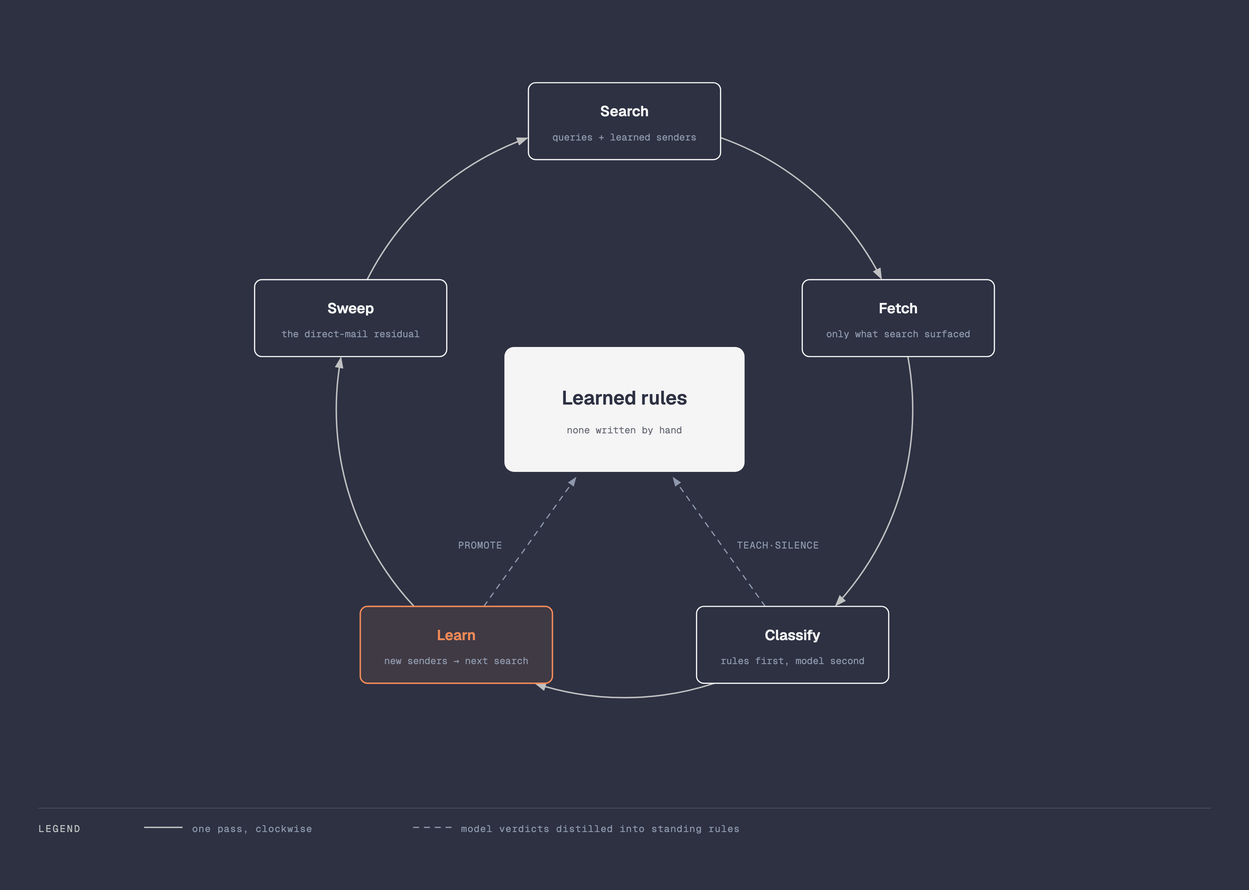
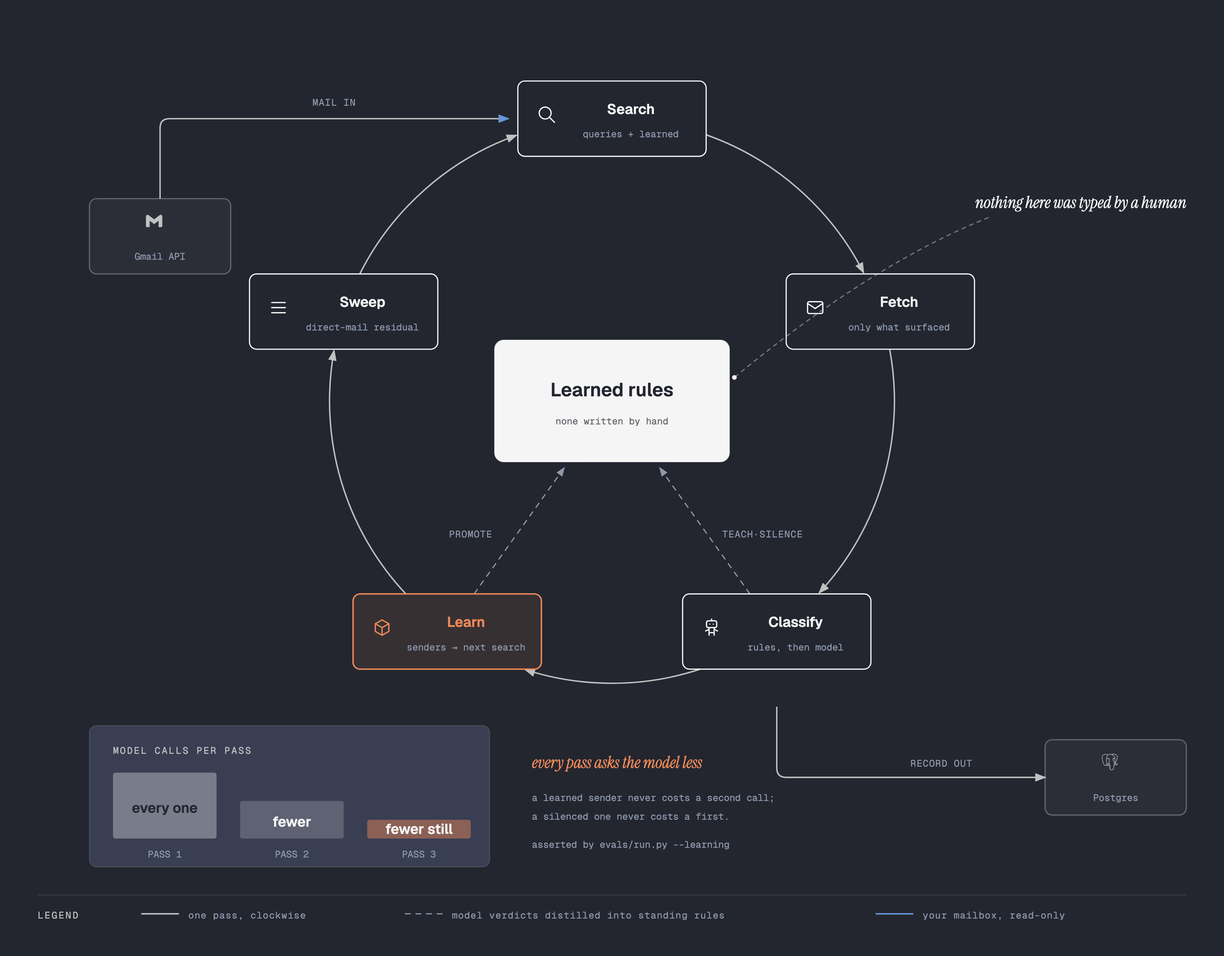
Draw the cost falling, not just the loop turning
The old diagram was a correct topology map and nothing more: it showed
that a loop exists, and left the claim the loop is *for* — that the work
shrinks every pass — entirely to the caption. Three additions fix that.

A model-calls-per-pass strip puts the decay on the page, so the falling
cost is something the reader sees rather than something they are told.
Gmail and Postgres now anchor the ends, which turns a generic flywheel
into this specific system reading a mailbox and writing a record. And
every station carries an icon, so the five steps are distinguishable at a
glance instead of five identical rectangles.

The ring geometry, radius and station angles are unchanged; the type is
still Loop and the two-coral budget still holds (the Learn station and
the final bar). The dark variant is the same drawing under the token
inversion, and both PNGs are re-exported at 3x.

Claude-Session: https://claude.ai/code/session_01Sbcg7hfF8zXLoYjJBcyraC

diff --git a/docs/diagrams/seed-expand-loop-dark.html b/docs/diagrams/seed-expand-loop-dark.html
@@ -8,7 +8,7 @@
   <style>
     *, *::before, *::after { box-sizing: border-box; margin: 0; padding: 0; }
     :root {
-      --paper: #2d3142; --ink: #f5f5f5; --muted: #bfc0c0; --soft: #8e98ac;
+      --paper: #23262f; --paper-2: #393e53; --ink: #f5f5f5; --muted: #bfc0c0; --soft: #8e98ac;
       --accent: #f08a59; --accent-tint: rgba(240,138,89,0.10); --link: #6a95d8;
       --sans: 'Geist', system-ui, sans-serif; --serif: 'Instrument Serif', serif;
       --mono: 'Geist Mono', ui-monospace, monospace;
@@ -22,6 +22,7 @@
     .spoke { fill: none; stroke: var(--soft); stroke-width: 1; stroke-dasharray: 5 4; }
     .station { fill: var(--paper); stroke: var(--ink); stroke-width: 1; }
     .station.focal { fill: var(--accent-tint); stroke: var(--accent); stroke-width: 1.2; }
+    .ext { fill: rgba(245,245,245,0.04); stroke: rgba(245,245,245,0.30); stroke-width: 1; }
     .hub { fill: var(--ink); }
     .node-name { fill: var(--ink); font: 600 12px var(--sans); text-anchor: middle; }
     .focal-name { fill: var(--accent); }
@@ -31,6 +32,12 @@
     .arrow-label { fill: var(--soft); font: 400 8px var(--mono); letter-spacing: 0.06em; text-anchor: middle; }
     .legend-title { fill: var(--muted); font: 400 8px var(--mono); letter-spacing: 0.14em; }
     .legend-item { fill: var(--soft); font: 400 8px var(--mono); letter-spacing: 0.06em; }
+    .aside { fill: var(--ink); font: italic 400 14px var(--serif); }
+    .aside-accent { fill: var(--accent); font: italic 400 14px var(--serif); }
+    .decay-title { fill: var(--muted); font: 400 8px var(--mono); letter-spacing: 0.14em; }
+    .decay-val { font: 600 12px var(--sans); text-anchor: middle; }
+    .decay-pass { fill: var(--soft); font: 400 8px var(--mono); text-anchor: middle; }
+    .decay-note { fill: var(--soft); font: 400 8px var(--mono); text-anchor: start; }
   </style>
 </head>
 <body>
@@ -38,16 +45,25 @@
     <p class="eyebrow">jobd &middot; seed &amp; expand</p>
     <h1>The loop that gets cheaper every run</h1>
 
-    <svg viewBox="0 0 1040 740" xmlns="http://www.w3.org/2000/svg" role="img" aria-labelledby="jobd-loop-dark-title jobd-loop-dark-desc">
-      <title id="jobd-loop-dark-title">The loop that gets cheaper every run</title>
-      <desc id="jobd-loop-dark-desc">Five stations flow clockwise: search, fetch, classify, learn, and a sweep of the direct-mail residual. Classify and learn write distilled sender rules into one central hub, so each pass of the loop costs less than the one before.</desc>
+    <svg viewBox="0 0 1040 812" xmlns="http://www.w3.org/2000/svg" role="img" aria-labelledby="loop-dark-title loop-dark-desc">
+      <title id="loop-dark-title">The loop that gets cheaper every run</title>
+      <desc id="loop-dark-desc">Mail is pulled from Gmail into a five-station clockwise loop — search, fetch, classify, learn, and a sweep of the direct-mail residual — whose record lands in Postgres. Classify and learn distil model verdicts into one shared store of learned sender rules, so each pass sends fewer messages to the model than the pass before.</desc>
       <defs>
         <marker id="arrow" markerWidth="8" markerHeight="6" refX="7" refY="3" orient="auto"><polygon points="0 0, 8 3, 0 6" fill="#bfc0c0"/></marker>
         <marker id="arrow-accent" markerWidth="8" markerHeight="6" refX="7" refY="3" orient="auto"><polygon points="0 0, 8 3, 0 6" fill="#f08a59"/></marker>
         <marker id="arrow-link" markerWidth="8" markerHeight="6" refX="7" refY="3" orient="auto"><polygon points="0 0, 8 3, 0 6" fill="#6a95d8"/></marker>
         <marker id="arrow-soft" markerWidth="8" markerHeight="6" refX="7" refY="3" orient="auto"><polygon points="0 0, 8 3, 0 6" fill="#8e98ac"/></marker>
       </defs>
-      <rect width="1040" height="740" fill="#2d3142"/>
+      <rect width="1040" height="812" fill="#23262f"/>
+
+      <!-- External source and sink, drawn first so ring arrows sit above paper. -->
+      <path class="ring" d="M136 168 L136 108 Q136 100 144 100 L432 100" marker-end="url(#arrow-link)" stroke="#6a95d8"/>
+      <rect x="256" y="78" width="56" height="14" rx="2" fill="#23262f"/>
+      <text x="284" y="89" class="arrow-label" fill="#6a95d8">MAIL IN</text>
+
+      <path class="ring" d="M660 600 L660 652 Q660 660 668 660 L888 660" marker-end="url(#arrow)"/>
+      <rect x="764" y="640" width="72" height="14" rx="2" fill="#23262f"/>
+      <text x="800" y="651" class="arrow-label">RECORD OUT</text>
 
       <!-- Solid clockwise ring: five arcs on the same r=240 station circle. -->
       <path class="ring" d="M600.000 113.726 A240 240 0 0 1 733.784 230.930" marker-end="url(#arrow)"/>
@@ -61,39 +77,83 @@
       <path class="spoke" d="M402.857 504.000 L479.370 396.882" marker-end="url(#arrow-soft)"/>
 
       <!-- Spoke labels sit beside the line with a visible 6px+ gap. -->
-      <rect x="612" y="444" width="72" height="16" rx="4" fill="#2d3142"/>
+      <rect x="612" y="444" width="72" height="16" rx="4" fill="#23262f"/>
       <text x="648" y="456" class="arrow-label">TEACH&#183;SILENCE</text>
-      <rect x="372" y="444" width="56" height="16" rx="4" fill="#2d3142"/>
+      <rect x="372" y="444" width="56" height="16" rx="4" fill="#23262f"/>
       <text x="400" y="456" class="arrow-label">PROMOTE</text>
 
-      <!-- Stations, clockwise from the top. -->
+      <!-- External: Gmail source. -->
+      <rect class="ext" x="76" y="168" width="120" height="64" rx="6"/>
+      <g transform="translate(124,180) scale(0.58)" fill="#bfc0c0"><path d="M24 5.457v13.909c0 .904-.732 1.636-1.636 1.636h-3.819V11.73L12 16.64l-6.545-4.91v9.273H1.636A1.636 1.636 0 0 1 0 19.366V5.457c0-2.023 2.309-3.178 3.927-1.964L5.455 4.64 12 9.548l6.545-4.91 1.528-1.145C21.69 2.28 24 3.434 24 5.457z"/></g>
+      <text x="136" y="220" class="sublabel">Gmail API</text>
+
+      <!-- External: Postgres sink. -->
+      <rect class="ext" x="888" y="628" width="120" height="64" rx="6"/>
+      <g transform="translate(936,640) scale(0.58)" fill="#bfc0c0"><path d="M23.5594 14.7228a.5269.5269 0 0 0-.0563-.1191c-.139-.2632-.4768-.3418-1.0074-.2321-1.6533.3411-2.2935.1312-2.5256-.0191 1.342-2.0482 2.445-4.522 3.0411-6.8297.2714-1.0507.7982-3.5237.1222-4.7316a1.5641 1.5641 0 0 0-.1509-.235C21.6931.9086 19.8007.0248 17.5099.0005c-1.4947-.0158-2.7705.3461-3.1161.4794a9.449 9.449 0 0 0-.5159-.0816 8.044 8.044 0 0 0-1.3114-.1278c-1.1822-.0184-2.2038.2642-3.0498.8406-.8573-.3211-4.7888-1.645-7.2219.0788C.9359 2.1526.3086 3.8733.4302 6.3043c.0409.818.5069 3.334 1.2423 5.7436.4598 1.5065.9387 2.7019 1.4334 3.582.553.9942 1.1259 1.5933 1.7143 1.7895.4474.1491 1.1327.1441 1.8581-.7279.8012-.9635 1.5903-1.8258 1.9446-2.2069.4351.2355.9064.3625 1.39.3772a.0569.0569 0 0 0 .0004.0041 11.0312 11.0312 0 0 0-.2472.3054c-.3389.4302-.4094.5197-1.5002.7443-.3102.064-1.1344.2339-1.1464.8115-.0025.1224.0329.2309.0919.3268.2269.4231.9216.6097 1.015.6331 1.3345.3335 2.5044.092 3.3714-.6787-.017 2.231.0775 4.4174.3454 5.0874.2212.5529.7618 1.9045 2.4692 1.9043.2505 0 .5263-.0291.8296-.0941 1.7819-.3821 2.5557-1.1696 2.855-2.9059.1503-.8707.4016-2.8753.5388-4.1012.0169-.0703.0357-.1207.057-.1362.0007-.0005.0697-.0471.4272.0307a.3673.3673 0 0 0 .0443.0068l.2539.0223.0149.001c.8468.0384 1.9114-.1426 2.5312-.4308.6438-.2988 1.8057-1.0323 1.5951-1.6698zM2.371 11.8765c-.7435-2.4358-1.1779-4.8851-1.2123-5.5719-.1086-2.1714.4171-3.6829 1.5623-4.4927 1.8367-1.2986 4.8398-.5408 6.108-.13-.0032.0032-.0066.0061-.0098.0094-2.0238 2.044-1.9758 5.536-1.9708 5.7495-.0002.0823.0066.1989.0162.3593.0348.5873.0996 1.6804-.0735 2.9184-.1609 1.1504.1937 2.2764.9728 3.0892.0806.0841.1648.1631.2518.2374-.3468.3714-1.1004 1.1926-1.9025 2.1576-.5677.6825-.9597.5517-1.0886.5087-.3919-.1307-.813-.5871-1.2381-1.3223-.4796-.839-.9635-2.0317-1.4155-3.5126zm6.0072 5.0871c-.1711-.0428-.3271-.1132-.4322-.1772.0889-.0394.2374-.0902.4833-.1409 1.2833-.2641 1.4815-.4506 1.9143-1.0002.0992-.126.2116-.2687.3673-.4426a.3549.3549 0 0 0 .0737-.1298c.1708-.1513.2724-.1099.4369-.0417.156.0646.3078.26.3695.4752.0291.1016.0619.2945-.0452.4444-.9043 1.2658-2.2216 1.2494-3.1676 1.0128zm2.094-3.988-.0525.141c-.133.3566-.2567.6881-.3334 1.003-.6674-.0021-1.3168-.2872-1.8105-.8024-.6279-.6551-.9131-1.5664-.7825-2.5004.1828-1.3079.1153-2.4468.079-3.0586-.005-.0857-.0095-.1607-.0122-.2199.2957-.2621 1.6659-.9962 2.6429-.7724.4459.1022.7176.4057.8305.928.5846 2.7038.0774 3.8307-.3302 4.7363-.084.1866-.1633.3629-.2311.5454zm7.3637 4.5725c-.0169.1768-.0358.376-.0618.5959l-.146.4383a.3547.3547 0 0 0-.0182.1077c-.0059.4747-.054.6489-.115.8693-.0634.2292-.1353.4891-.1794 1.0575-.11 1.4143-.8782 2.2267-2.4172 2.5565-1.5155.3251-1.7843-.4968-2.0212-1.2217a6.5824 6.5824 0 0 0-.0769-.2266c-.2154-.5858-.1911-1.4119-.1574-2.5551.0165-.5612-.0249-1.9013-.3302-2.6462.0044-.2932.0106-.5909.019-.8918a.3529.3529 0 0 0-.0153-.1126 1.4927 1.4927 0 0 0-.0439-.208c-.1226-.4283-.4213-.7866-.7797-.9351-.1424-.059-.4038-.1672-.7178-.0869.067-.276.1831-.5875.309-.9249l.0529-.142c.0595-.16.134-.3257.213-.5012.4265-.9476 1.0106-2.2453.3766-5.1772-.2374-1.0981-1.0304-1.6343-2.2324-1.5098-.7207.0746-1.3799.3654-1.7088.5321a5.6716 5.6716 0 0 0-.1958.1041c.0918-1.1064.4386-3.1741 1.7357-4.4823a4.0306 4.0306 0 0 1 .3033-.276.3532.3532 0 0 0 .1447-.0644c.7524-.5706 1.6945-.8506 2.802-.8325.4091.0067.8017.0339 1.1742.081 1.939.3544 3.2439 1.4468 4.0359 2.3827.8143.9623 1.2552 1.9315 1.4312 2.4543-1.3232-.1346-2.2234.1268-2.6797.779-.9926 1.4189.543 4.1729 1.2811 5.4964.1353.2426.2522.4522.2889.5413.2403.5825.5515.9713.7787 1.2552.0696.087.1372.1714.1885.245-.4008.1155-1.1208.3825-1.0552 1.717-.0123.1563-.0423.4469-.0834.8148-.0461.2077-.0702.4603-.0994.7662zm.8905-1.6211c-.0405-.8316.2691-.9185.5967-1.0105a2.8566 2.8566 0 0 0 .135-.0406 1.202 1.202 0 0 0 .1342.103c.5703.3765 1.5823.4213 3.0068.1344-.2016.1769-.5189.3994-.9533.6011-.4098.1903-1.0957.333-1.7473.3636-.7197.0336-1.0859-.0807-1.1721-.151zm.5695-9.2712c-.0059.3508-.0542.6692-.1054 1.0017-.055.3576-.112.7274-.1264 1.1762-.0142.4368.0404.8909.0932 1.3301.1066.887.216 1.8003-.2075 2.7014a3.5272 3.5272 0 0 1-.1876-.3856c-.0527-.1276-.1669-.3326-.3251-.6162-.6156-1.1041-2.0574-3.6896-1.3193-4.7446.3795-.5427 1.3408-.5661 2.1781-.463zm.2284 7.0137a12.3762 12.3762 0 0 0-.0853-.1074l-.0355-.0444c.7262-1.1995.5842-2.3862.4578-3.4385-.0519-.4318-.1009-.8396-.0885-1.2226.0129-.4061.0666-.7543.1185-1.0911.0639-.415.1288-.8443.1109-1.3505.0134-.0531.0188-.1158.0118-.1902-.0457-.4855-.5999-1.938-1.7294-3.253-.6076-.7073-1.4896-1.4972-2.6889-2.0395.5251-.1066 1.2328-.2035 2.0244-.1859 2.0515.0456 3.6746.8135 4.8242 2.2824a.908.908 0 0 1 .0667.1002c.7231 1.3556-.2762 6.2751-2.9867 10.5405zm-8.8166-6.1162c-.025.1794-.3089.4225-.6211.4225a.5821.5821 0 0 1-.0809-.0056c-.1873-.026-.3765-.144-.5059-.3156-.0458-.0605-.1203-.178-.1055-.2844.0055-.0401.0261-.0985.0925-.1488.1182-.0894.3518-.1226.6096-.0867.3163.0441.6426.1938.6113.4186zm7.9305-.4114c.0111.0792-.049.201-.1531.3102-.0683.0717-.212.1961-.4079.2232a.5456.5456 0 0 1-.075.0052c-.2935 0-.5414-.2344-.5607-.3717-.024-.1765.2641-.3106.5611-.352.297-.0414.6111.0088.6356.1851z"/></g>
+      <text x="948" y="680" class="sublabel">Postgres</text>
+
+      <!-- Stations, clockwise from the top. Icons sit left, text right. -->
       <rect class="station" x="440" y="68" width="160" height="64" rx="6"/>
-      <text x="520" y="96" class="node-name">Search</text><text x="520" y="116" class="sublabel">queries + learned senders</text>
+      <g transform="translate(456,88) scale(0.72)" fill="none" stroke="#f5f5f5" stroke-width="1.5" stroke-linecap="round" stroke-linejoin="round"><path d="M3 10a7 7 0 1 0 14 0a7 7 0 1 0 -14 0"/><path d="M21 21l-6 -6"/></g>
+      <text x="536" y="96" class="node-name">Search</text><text x="536" y="116" class="sublabel">queries + learned</text>
 
       <rect class="station" x="668" y="232" width="160" height="64" rx="6"/>
-      <text x="748" y="260" class="node-name">Fetch</text><text x="748" y="280" class="sublabel">only what search surfaced</text>
+      <g transform="translate(684,252) scale(0.72)" fill="none" stroke="#f5f5f5" stroke-width="1.5" stroke-linecap="round" stroke-linejoin="round"><path d="M3 7a2 2 0 0 1 2 -2h14a2 2 0 0 1 2 2v10a2 2 0 0 1 -2 2h-14a2 2 0 0 1 -2 -2l0 -10"/><path d="M3 7l9 6l9 -6"/></g>
+      <text x="764" y="260" class="node-name">Fetch</text><text x="764" y="280" class="sublabel">only what surfaced</text>
 
       <rect class="station" x="580" y="504" width="160" height="64" rx="6"/>
-      <text x="660" y="532" class="node-name">Classify</text><text x="660" y="552" class="sublabel">rules first, model second</text>
+      <g transform="translate(596,524) scale(0.72)" fill="none" stroke="#f5f5f5" stroke-width="1.5" stroke-linecap="round" stroke-linejoin="round"><path d="M6 6a2 2 0 0 1 2 -2h8a2 2 0 0 1 2 2v4a2 2 0 0 1 -2 2h-8a2 2 0 0 1 -2 -2l0 -4"/><path d="M12 2v2"/><path d="M9 12v9"/><path d="M15 12v9"/><path d="M5 16l4 -2"/><path d="M15 14l4 2"/><path d="M9 18h6"/><path d="M10 8v.01"/><path d="M14 8v.01"/></g>
+      <text x="676" y="532" class="node-name">Classify</text><text x="676" y="552" class="sublabel">rules, then model</text>
 
       <rect class="station focal" x="300" y="504" width="160" height="64" rx="6"/>
-      <text x="380" y="532" class="node-name focal-name">Learn</text><text x="380" y="552" class="sublabel">new senders &#8594; next search</text>
+      <g transform="translate(316,524) scale(0.72)" fill="none" stroke="#f08a59" stroke-width="1.5" stroke-linecap="round" stroke-linejoin="round"><path d="M12 3l8 4.5l0 9l-8 4.5l-8 -4.5l0 -9l8 -4.5"/><path d="M12 12l8 -4.5"/><path d="M12 12l0 9"/><path d="M12 12l-8 -4.5"/></g>
+      <text x="396" y="532" class="node-name focal-name">Learn</text><text x="396" y="552" class="sublabel">senders &#8594; next search</text>
 
       <rect class="station" x="212" y="232" width="160" height="64" rx="6"/>
-      <text x="292" y="260" class="node-name">Sweep</text><text x="292" y="280" class="sublabel">the direct-mail residual</text>
+      <g transform="translate(228,252) scale(0.72)" fill="none" stroke="#f5f5f5" stroke-width="1.5" stroke-linecap="round" stroke-linejoin="round"><path d="M4 12h16"/><path d="M4 18h16"/><path d="M4 6h16"/></g>
+      <text x="308" y="260" class="node-name">Sweep</text><text x="308" y="280" class="sublabel">direct-mail residual</text>
 
       <!-- The one shared-state hub. -->
       <rect class="hub" x="420" y="288" width="200" height="104" rx="8"/>
       <text x="520" y="336" class="hub-name">Learned rules</text>
       <text x="520" y="360" class="hub-sub">none written by hand</text>
 
+      <!-- Editorial aside on the hub. -->
+      <text x="1008" y="176" class="aside" text-anchor="end">nothing here was typed by a human</text>
+      <path d="M840 184 Q 740 224 624 320" fill="none" stroke="rgba(245,245,245,0.40)" stroke-width="1" stroke-dasharray="4,3"/>
+      <circle cx="624" cy="320" r="2" fill="#f5f5f5"/>
+
+      <!-- Cost decay: the claim the loop exists to make. Bars share a
+           common baseline at y=712 so height alone encodes the fall. -->
+      <rect x="76" y="616" width="340" height="120" rx="6" fill="#393e53" stroke="rgba(245,245,245,0.12)" stroke-width="1"/>
+      <text x="96" y="640" class="decay-title">MODEL CALLS PER PASS</text>
+
+      <rect x="96" y="656" width="88" height="56" rx="2" fill="rgba(245,245,245,0.34)"/>
+      <text x="140" y="690" class="decay-val" fill="#23262f">every one</text>
+      <text x="140" y="728" class="decay-pass">PASS 1</text>
+
+      <rect x="204" y="680" width="88" height="32" rx="2" fill="rgba(245,245,245,0.20)"/>
+      <text x="248" y="702" class="decay-val" fill="#f5f5f5">fewer</text>
+      <text x="248" y="728" class="decay-pass">PASS 2</text>
+
+      <rect x="312" y="696" width="88" height="16" rx="2" fill="rgba(240,138,89,0.45)"/>
+      <text x="356" y="708" class="decay-val" fill="#f5f5f5" font-size="8">fewer still</text>
+      <text x="356" y="728" class="decay-pass">PASS 3</text>
+
+      <text x="452" y="652" class="aside-accent">every pass asks the model less</text>
+      <text x="452" y="680" class="decay-note">a learned sender never costs a second call;</text>
+      <text x="452" y="696" class="decay-note">a silenced one never costs a first.</text>
+      <text x="452" y="720" class="decay-note">asserted by evals/run.py --learning</text>
+
       <!-- Legend strip -->
-      <line x1="32" y1="672" x2="1008" y2="672" stroke="rgba(245,245,245,0.12)" stroke-width="0.8"/>
-      <text x="32" y="692" class="legend-title">LEGEND</text>
-      <line x1="120" y1="688" x2="152" y2="688" stroke="#bfc0c0" stroke-width="1.2"/>
-      <text x="160" y="692" class="legend-item">one pass, clockwise</text>
-      <line x1="344" y1="688" x2="376" y2="688" stroke="#8e98ac" stroke-width="1" stroke-dasharray="5 4"/>
-      <text x="384" y="692" class="legend-item">model verdicts distilled into standing rules</text>
+      <line x1="32" y1="760" x2="1008" y2="760" stroke="rgba(245,245,245,0.10)" stroke-width="0.8"/>
+      <text x="32" y="780" class="legend-title">LEGEND</text>
+      <line x1="120" y1="776" x2="152" y2="776" stroke="#bfc0c0" stroke-width="1.2"/>
+      <text x="160" y="780" class="legend-item">one pass, clockwise</text>
+      <line x1="344" y1="776" x2="376" y2="776" stroke="#8e98ac" stroke-width="1" stroke-dasharray="5 4"/>
+      <text x="384" y="780" class="legend-item">model verdicts distilled into standing rules</text>
+      <line x1="744" y1="776" x2="776" y2="776" stroke="#6a95d8" stroke-width="1.2"/>
+      <text x="784" y="780" class="legend-item">your mailbox, read-only</text>
     </svg>
   </main>
 </body>

diff --git a/docs/diagrams/seed-expand-loop.html b/docs/diagrams/seed-expand-loop.html
@@ -8,7 +8,7 @@
   <style>
     *, *::before, *::after { box-sizing: border-box; margin: 0; padding: 0; }
     :root {
-      --paper: #f5f5f5; --ink: #2d3142; --muted: #4f5d75; --soft: #7a8399;
+      --paper: #f5f5f5; --paper-2: #ececec; --ink: #2d3142; --muted: #4f5d75; --soft: #7a8399;
       --accent: #eb6c36; --accent-tint: rgba(235,108,54,0.08); --link: #2e5aa8;
       --sans: 'Geist', system-ui, sans-serif; --serif: 'Instrument Serif', serif;
       --mono: 'Geist Mono', ui-monospace, monospace;
@@ -22,6 +22,7 @@
     .spoke { fill: none; stroke: var(--soft); stroke-width: 1; stroke-dasharray: 5 4; }
     .station { fill: var(--paper); stroke: var(--ink); stroke-width: 1; }
     .station.focal { fill: var(--accent-tint); stroke: var(--accent); stroke-width: 1.2; }
+    .ext { fill: rgba(45,49,66,0.03); stroke: rgba(45,49,66,0.30); stroke-width: 1; }
     .hub { fill: var(--ink); }
     .node-name { fill: var(--ink); font: 600 12px var(--sans); text-anchor: middle; }
     .focal-name { fill: var(--accent); }
@@ -31,6 +32,12 @@
     .arrow-label { fill: var(--soft); font: 400 8px var(--mono); letter-spacing: 0.06em; text-anchor: middle; }
     .legend-title { fill: var(--muted); font: 400 8px var(--mono); letter-spacing: 0.14em; }
     .legend-item { fill: var(--soft); font: 400 8px var(--mono); letter-spacing: 0.06em; }
+    .aside { fill: var(--ink); font: italic 400 14px var(--serif); }
+    .aside-accent { fill: var(--accent); font: italic 400 14px var(--serif); }
+    .decay-title { fill: var(--muted); font: 400 8px var(--mono); letter-spacing: 0.14em; }
+    .decay-val { font: 600 12px var(--sans); text-anchor: middle; }
+    .decay-pass { fill: var(--soft); font: 400 8px var(--mono); text-anchor: middle; }
+    .decay-note { fill: var(--soft); font: 400 8px var(--mono); text-anchor: start; }
   </style>
 </head>
 <body>
@@ -38,16 +45,25 @@
     <p class="eyebrow">jobd &middot; seed &amp; expand</p>
     <h1>The loop that gets cheaper every run</h1>
 
-    <svg viewBox="0 0 1040 740" xmlns="http://www.w3.org/2000/svg" role="img" aria-labelledby="jobd-loop-title jobd-loop-desc">
-      <title id="jobd-loop-title">The loop that gets cheaper every run</title>
-      <desc id="jobd-loop-desc">Five stations flow clockwise: search, fetch, classify, learn, and a sweep of the direct-mail residual. Classify and learn write distilled sender rules into one central hub, so each pass of the loop costs less than the one before.</desc>
+    <svg viewBox="0 0 1040 812" xmlns="http://www.w3.org/2000/svg" role="img" aria-labelledby="loop-title loop-desc">
+      <title id="loop-title">The loop that gets cheaper every run</title>
+      <desc id="loop-desc">Mail is pulled from Gmail into a five-station clockwise loop — search, fetch, classify, learn, and a sweep of the direct-mail residual — whose record lands in Postgres. Classify and learn distil model verdicts into one shared store of learned sender rules, so each pass sends fewer messages to the model than the pass before.</desc>
       <defs>
         <marker id="arrow" markerWidth="8" markerHeight="6" refX="7" refY="3" orient="auto"><polygon points="0 0, 8 3, 0 6" fill="#4f5d75"/></marker>
         <marker id="arrow-accent" markerWidth="8" markerHeight="6" refX="7" refY="3" orient="auto"><polygon points="0 0, 8 3, 0 6" fill="#eb6c36"/></marker>
         <marker id="arrow-link" markerWidth="8" markerHeight="6" refX="7" refY="3" orient="auto"><polygon points="0 0, 8 3, 0 6" fill="#2e5aa8"/></marker>
         <marker id="arrow-soft" markerWidth="8" markerHeight="6" refX="7" refY="3" orient="auto"><polygon points="0 0, 8 3, 0 6" fill="#7a8399"/></marker>
       </defs>
-      <rect width="1040" height="740" fill="#f5f5f5"/>
+      <rect width="1040" height="812" fill="#f5f5f5"/>
+
+      <!-- External source and sink, drawn first so ring arrows sit above paper. -->
+      <path class="ring" d="M136 168 L136 108 Q136 100 144 100 L432 100" marker-end="url(#arrow-link)" stroke="#2e5aa8"/>
+      <rect x="256" y="78" width="56" height="14" rx="2" fill="#f5f5f5"/>
+      <text x="284" y="89" class="arrow-label" fill="#2e5aa8">MAIL IN</text>
+
+      <path class="ring" d="M660 600 L660 652 Q660 660 668 660 L888 660" marker-end="url(#arrow)"/>
+      <rect x="764" y="640" width="72" height="14" rx="2" fill="#f5f5f5"/>
+      <text x="800" y="651" class="arrow-label">RECORD OUT</text>
 
       <!-- Solid clockwise ring: five arcs on the same r=240 station circle. -->
       <path class="ring" d="M600.000 113.726 A240 240 0 0 1 733.784 230.930" marker-end="url(#arrow)"/>
@@ -66,34 +82,78 @@
       <rect x="372" y="444" width="56" height="16" rx="4" fill="#f5f5f5"/>
       <text x="400" y="456" class="arrow-label">PROMOTE</text>
 
-      <!-- Stations, clockwise from the top. -->
+      <!-- External: Gmail source. -->
+      <rect class="ext" x="76" y="168" width="120" height="64" rx="6"/>
+      <g transform="translate(124,180) scale(0.58)" fill="#4f5d75"><path d="M24 5.457v13.909c0 .904-.732 1.636-1.636 1.636h-3.819V11.73L12 16.64l-6.545-4.91v9.273H1.636A1.636 1.636 0 0 1 0 19.366V5.457c0-2.023 2.309-3.178 3.927-1.964L5.455 4.64 12 9.548l6.545-4.91 1.528-1.145C21.69 2.28 24 3.434 24 5.457z"/></g>
+      <text x="136" y="220" class="sublabel">Gmail API</text>
+
+      <!-- External: Postgres sink. -->
+      <rect class="ext" x="888" y="628" width="120" height="64" rx="6"/>
+      <g transform="translate(936,640) scale(0.58)" fill="#4f5d75"><path d="M23.5594 14.7228a.5269.5269 0 0 0-.0563-.1191c-.139-.2632-.4768-.3418-1.0074-.2321-1.6533.3411-2.2935.1312-2.5256-.0191 1.342-2.0482 2.445-4.522 3.0411-6.8297.2714-1.0507.7982-3.5237.1222-4.7316a1.5641 1.5641 0 0 0-.1509-.235C21.6931.9086 19.8007.0248 17.5099.0005c-1.4947-.0158-2.7705.3461-3.1161.4794a9.449 9.449 0 0 0-.5159-.0816 8.044 8.044 0 0 0-1.3114-.1278c-1.1822-.0184-2.2038.2642-3.0498.8406-.8573-.3211-4.7888-1.645-7.2219.0788C.9359 2.1526.3086 3.8733.4302 6.3043c.0409.818.5069 3.334 1.2423 5.7436.4598 1.5065.9387 2.7019 1.4334 3.582.553.9942 1.1259 1.5933 1.7143 1.7895.4474.1491 1.1327.1441 1.8581-.7279.8012-.9635 1.5903-1.8258 1.9446-2.2069.4351.2355.9064.3625 1.39.3772a.0569.0569 0 0 0 .0004.0041 11.0312 11.0312 0 0 0-.2472.3054c-.3389.4302-.4094.5197-1.5002.7443-.3102.064-1.1344.2339-1.1464.8115-.0025.1224.0329.2309.0919.3268.2269.4231.9216.6097 1.015.6331 1.3345.3335 2.5044.092 3.3714-.6787-.017 2.231.0775 4.4174.3454 5.0874.2212.5529.7618 1.9045 2.4692 1.9043.2505 0 .5263-.0291.8296-.0941 1.7819-.3821 2.5557-1.1696 2.855-2.9059.1503-.8707.4016-2.8753.5388-4.1012.0169-.0703.0357-.1207.057-.1362.0007-.0005.0697-.0471.4272.0307a.3673.3673 0 0 0 .0443.0068l.2539.0223.0149.001c.8468.0384 1.9114-.1426 2.5312-.4308.6438-.2988 1.8057-1.0323 1.5951-1.6698zM2.371 11.8765c-.7435-2.4358-1.1779-4.8851-1.2123-5.5719-.1086-2.1714.4171-3.6829 1.5623-4.4927 1.8367-1.2986 4.8398-.5408 6.108-.13-.0032.0032-.0066.0061-.0098.0094-2.0238 2.044-1.9758 5.536-1.9708 5.7495-.0002.0823.0066.1989.0162.3593.0348.5873.0996 1.6804-.0735 2.9184-.1609 1.1504.1937 2.2764.9728 3.0892.0806.0841.1648.1631.2518.2374-.3468.3714-1.1004 1.1926-1.9025 2.1576-.5677.6825-.9597.5517-1.0886.5087-.3919-.1307-.813-.5871-1.2381-1.3223-.4796-.839-.9635-2.0317-1.4155-3.5126zm6.0072 5.0871c-.1711-.0428-.3271-.1132-.4322-.1772.0889-.0394.2374-.0902.4833-.1409 1.2833-.2641 1.4815-.4506 1.9143-1.0002.0992-.126.2116-.2687.3673-.4426a.3549.3549 0 0 0 .0737-.1298c.1708-.1513.2724-.1099.4369-.0417.156.0646.3078.26.3695.4752.0291.1016.0619.2945-.0452.4444-.9043 1.2658-2.2216 1.2494-3.1676 1.0128zm2.094-3.988-.0525.141c-.133.3566-.2567.6881-.3334 1.003-.6674-.0021-1.3168-.2872-1.8105-.8024-.6279-.6551-.9131-1.5664-.7825-2.5004.1828-1.3079.1153-2.4468.079-3.0586-.005-.0857-.0095-.1607-.0122-.2199.2957-.2621 1.6659-.9962 2.6429-.7724.4459.1022.7176.4057.8305.928.5846 2.7038.0774 3.8307-.3302 4.7363-.084.1866-.1633.3629-.2311.5454zm7.3637 4.5725c-.0169.1768-.0358.376-.0618.5959l-.146.4383a.3547.3547 0 0 0-.0182.1077c-.0059.4747-.054.6489-.115.8693-.0634.2292-.1353.4891-.1794 1.0575-.11 1.4143-.8782 2.2267-2.4172 2.5565-1.5155.3251-1.7843-.4968-2.0212-1.2217a6.5824 6.5824 0 0 0-.0769-.2266c-.2154-.5858-.1911-1.4119-.1574-2.5551.0165-.5612-.0249-1.9013-.3302-2.6462.0044-.2932.0106-.5909.019-.8918a.3529.3529 0 0 0-.0153-.1126 1.4927 1.4927 0 0 0-.0439-.208c-.1226-.4283-.4213-.7866-.7797-.9351-.1424-.059-.4038-.1672-.7178-.0869.067-.276.1831-.5875.309-.9249l.0529-.142c.0595-.16.134-.3257.213-.5012.4265-.9476 1.0106-2.2453.3766-5.1772-.2374-1.0981-1.0304-1.6343-2.2324-1.5098-.7207.0746-1.3799.3654-1.7088.5321a5.6716 5.6716 0 0 0-.1958.1041c.0918-1.1064.4386-3.1741 1.7357-4.4823a4.0306 4.0306 0 0 1 .3033-.276.3532.3532 0 0 0 .1447-.0644c.7524-.5706 1.6945-.8506 2.802-.8325.4091.0067.8017.0339 1.1742.081 1.939.3544 3.2439 1.4468 4.0359 2.3827.8143.9623 1.2552 1.9315 1.4312 2.4543-1.3232-.1346-2.2234.1268-2.6797.779-.9926 1.4189.543 4.1729 1.2811 5.4964.1353.2426.2522.4522.2889.5413.2403.5825.5515.9713.7787 1.2552.0696.087.1372.1714.1885.245-.4008.1155-1.1208.3825-1.0552 1.717-.0123.1563-.0423.4469-.0834.8148-.0461.2077-.0702.4603-.0994.7662zm.8905-1.6211c-.0405-.8316.2691-.9185.5967-1.0105a2.8566 2.8566 0 0 0 .135-.0406 1.202 1.202 0 0 0 .1342.103c.5703.3765 1.5823.4213 3.0068.1344-.2016.1769-.5189.3994-.9533.6011-.4098.1903-1.0957.333-1.7473.3636-.7197.0336-1.0859-.0807-1.1721-.151zm.5695-9.2712c-.0059.3508-.0542.6692-.1054 1.0017-.055.3576-.112.7274-.1264 1.1762-.0142.4368.0404.8909.0932 1.3301.1066.887.216 1.8003-.2075 2.7014a3.5272 3.5272 0 0 1-.1876-.3856c-.0527-.1276-.1669-.3326-.3251-.6162-.6156-1.1041-2.0574-3.6896-1.3193-4.7446.3795-.5427 1.3408-.5661 2.1781-.463zm.2284 7.0137a12.3762 12.3762 0 0 0-.0853-.1074l-.0355-.0444c.7262-1.1995.5842-2.3862.4578-3.4385-.0519-.4318-.1009-.8396-.0885-1.2226.0129-.4061.0666-.7543.1185-1.0911.0639-.415.1288-.8443.1109-1.3505.0134-.0531.0188-.1158.0118-.1902-.0457-.4855-.5999-1.938-1.7294-3.253-.6076-.7073-1.4896-1.4972-2.6889-2.0395.5251-.1066 1.2328-.2035 2.0244-.1859 2.0515.0456 3.6746.8135 4.8242 2.2824a.908.908 0 0 1 .0667.1002c.7231 1.3556-.2762 6.2751-2.9867 10.5405zm-8.8166-6.1162c-.025.1794-.3089.4225-.6211.4225a.5821.5821 0 0 1-.0809-.0056c-.1873-.026-.3765-.144-.5059-.3156-.0458-.0605-.1203-.178-.1055-.2844.0055-.0401.0261-.0985.0925-.1488.1182-.0894.3518-.1226.6096-.0867.3163.0441.6426.1938.6113.4186zm7.9305-.4114c.0111.0792-.049.201-.1531.3102-.0683.0717-.212.1961-.4079.2232a.5456.5456 0 0 1-.075.0052c-.2935 0-.5414-.2344-.5607-.3717-.024-.1765.2641-.3106.5611-.352.297-.0414.6111.0088.6356.1851z"/></g>
+      <text x="948" y="680" class="sublabel">Postgres</text>
+
+      <!-- Stations, clockwise from the top. Icons sit left, text right. -->
       <rect class="station" x="440" y="68" width="160" height="64" rx="6"/>
-      <text x="520" y="96" class="node-name">Search</text><text x="520" y="116" class="sublabel">queries + learned senders</text>
+      <g transform="translate(456,88) scale(0.72)" fill="none" stroke="#2d3142" stroke-width="1.5" stroke-linecap="round" stroke-linejoin="round"><path d="M3 10a7 7 0 1 0 14 0a7 7 0 1 0 -14 0"/><path d="M21 21l-6 -6"/></g>
+      <text x="536" y="96" class="node-name">Search</text><text x="536" y="116" class="sublabel">queries + learned</text>
 
       <rect class="station" x="668" y="232" width="160" height="64" rx="6"/>
-      <text x="748" y="260" class="node-name">Fetch</text><text x="748" y="280" class="sublabel">only what search surfaced</text>
+      <g transform="translate(684,252) scale(0.72)" fill="none" stroke="#2d3142" stroke-width="1.5" stroke-linecap="round" stroke-linejoin="round"><path d="M3 7a2 2 0 0 1 2 -2h14a2 2 0 0 1 2 2v10a2 2 0 0 1 -2 2h-14a2 2 0 0 1 -2 -2l0 -10"/><path d="M3 7l9 6l9 -6"/></g>
+      <text x="764" y="260" class="node-name">Fetch</text><text x="764" y="280" class="sublabel">only what surfaced</text>
 
       <rect class="station" x="580" y="504" width="160" height="64" rx="6"/>
-      <text x="660" y="532" class="node-name">Classify</text><text x="660" y="552" class="sublabel">rules first, model second</text>
+      <g transform="translate(596,524) scale(0.72)" fill="none" stroke="#2d3142" stroke-width="1.5" stroke-linecap="round" stroke-linejoin="round"><path d="M6 6a2 2 0 0 1 2 -2h8a2 2 0 0 1 2 2v4a2 2 0 0 1 -2 2h-8a2 2 0 0 1 -2 -2l0 -4"/><path d="M12 2v2"/><path d="M9 12v9"/><path d="M15 12v9"/><path d="M5 16l4 -2"/><path d="M15 14l4 2"/><path d="M9 18h6"/><path d="M10 8v.01"/><path d="M14 8v.01"/></g>
+      <text x="676" y="532" class="node-name">Classify</text><text x="676" y="552" class="sublabel">rules, then model</text>
 
       <rect class="station focal" x="300" y="504" width="160" height="64" rx="6"/>
-      <text x="380" y="532" class="node-name focal-name">Learn</text><text x="380" y="552" class="sublabel">new senders &#8594; next search</text>
+      <g transform="translate(316,524) scale(0.72)" fill="none" stroke="#eb6c36" stroke-width="1.5" stroke-linecap="round" stroke-linejoin="round"><path d="M12 3l8 4.5l0 9l-8 4.5l-8 -4.5l0 -9l8 -4.5"/><path d="M12 12l8 -4.5"/><path d="M12 12l0 9"/><path d="M12 12l-8 -4.5"/></g>
+      <text x="396" y="532" class="node-name focal-name">Learn</text><text x="396" y="552" class="sublabel">senders &#8594; next search</text>
 
       <rect class="station" x="212" y="232" width="160" height="64" rx="6"/>
-      <text x="292" y="260" class="node-name">Sweep</text><text x="292" y="280" class="sublabel">the direct-mail residual</text>
+      <g transform="translate(228,252) scale(0.72)" fill="none" stroke="#2d3142" stroke-width="1.5" stroke-linecap="round" stroke-linejoin="round"><path d="M4 12h16"/><path d="M4 18h16"/><path d="M4 6h16"/></g>
+      <text x="308" y="260" class="node-name">Sweep</text><text x="308" y="280" class="sublabel">direct-mail residual</text>
 
       <!-- The one shared-state hub. -->
       <rect class="hub" x="420" y="288" width="200" height="104" rx="8"/>
       <text x="520" y="336" class="hub-name">Learned rules</text>
       <text x="520" y="360" class="hub-sub">none written by hand</text>
 
+      <!-- Editorial aside on the hub. -->
+      <text x="1008" y="176" class="aside" text-anchor="end">nothing here was typed by a human</text>
+      <path d="M840 184 Q 740 224 624 320" fill="none" stroke="rgba(45,49,66,0.40)" stroke-width="1" stroke-dasharray="4,3"/>
+      <circle cx="624" cy="320" r="2" fill="#2d3142"/>
+
+      <!-- Cost decay: the claim the loop exists to make. Bars share a
+           common baseline at y=712 so height alone encodes the fall. -->
+      <rect x="76" y="616" width="340" height="120" rx="6" fill="#ececec" stroke="rgba(45,49,66,0.12)" stroke-width="1"/>
+      <text x="96" y="640" class="decay-title">MODEL CALLS PER PASS</text>
+
+      <rect x="96" y="656" width="88" height="56" rx="2" fill="rgba(45,49,66,0.28)"/>
+      <text x="140" y="690" class="decay-val" fill="#f5f5f5">every one</text>
+      <text x="140" y="728" class="decay-pass">PASS 1</text>
+
+      <rect x="204" y="680" width="88" height="32" rx="2" fill="rgba(45,49,66,0.18)"/>
+      <text x="248" y="702" class="decay-val" fill="#2d3142">fewer</text>
+      <text x="248" y="728" class="decay-pass">PASS 2</text>
+
+      <rect x="312" y="696" width="88" height="16" rx="2" fill="rgba(235,108,54,0.40)"/>
+      <text x="356" y="708" class="decay-val" fill="#2d3142" font-size="8">fewer still</text>
+      <text x="356" y="728" class="decay-pass">PASS 3</text>
+
+      <text x="452" y="652" class="aside-accent">every pass asks the model less</text>
+      <text x="452" y="680" class="decay-note">a learned sender never costs a second call;</text>
+      <text x="452" y="696" class="decay-note">a silenced one never costs a first.</text>
+      <text x="452" y="720" class="decay-note">asserted by evals/run.py --learning</text>
+
       <!-- Legend strip -->
-      <line x1="32" y1="672" x2="1008" y2="672" stroke="rgba(45,49,66,0.10)" stroke-width="0.8"/>
-      <text x="32" y="692" class="legend-title">LEGEND</text>
-      <line x1="120" y1="688" x2="152" y2="688" stroke="#4f5d75" stroke-width="1.2"/>
-      <text x="160" y="692" class="legend-item">one pass, clockwise</text>
-      <line x1="344" y1="688" x2="376" y2="688" stroke="#7a8399" stroke-width="1" stroke-dasharray="5 4"/>
-      <text x="384" y="692" class="legend-item">model verdicts distilled into standing rules</text>
+      <line x1="32" y1="760" x2="1008" y2="760" stroke="rgba(45,49,66,0.10)" stroke-width="0.8"/>
+      <text x="32" y="780" class="legend-title">LEGEND</text>
+      <line x1="120" y1="776" x2="152" y2="776" stroke="#4f5d75" stroke-width="1.2"/>
+      <text x="160" y="780" class="legend-item">one pass, clockwise</text>
+      <line x1="344" y1="776" x2="376" y2="776" stroke="#7a8399" stroke-width="1" stroke-dasharray="5 4"/>
+      <text x="384" y="780" class="legend-item">model verdicts distilled into standing rules</text>
+      <line x1="744" y1="776" x2="776" y2="776" stroke="#2e5aa8" stroke-width="1.2"/>
+      <text x="784" y="780" class="legend-item">your mailbox, read-only</text>
     </svg>
   </main>
 </body>

diff --git a/README.md b/README.md
@@ -167,10 +167,11 @@ direct-addressed mail nothing matched.
 
 <picture>
   <source media="(prefers-color-scheme: dark)" srcset="docs/img/seed-expand-loop-dark.png">
-  <img alt="The seed-and-expand loop: search, fetch, classify, learn, and a sweep of the
-direct-mail residual run clockwise, while classify and learn write distilled
-sender rules into a central hub — so every pass costs less than the one
-before" src="docs/img/seed-expand-loop.png">
+  <img alt="The seed-and-expand loop: mail enters from the Gmail API and the record
+lands in Postgres, while search, fetch, classify, learn and a sweep of the
+direct-mail residual run clockwise. Classify and learn distil model verdicts
+into one shared store of learned sender rules, and a bar chart shows model
+calls falling with every pass" src="docs/img/seed-expand-loop.png">
 </picture>
 
 *`plan` seeds the first search; `report` closes the run once the frontier is
